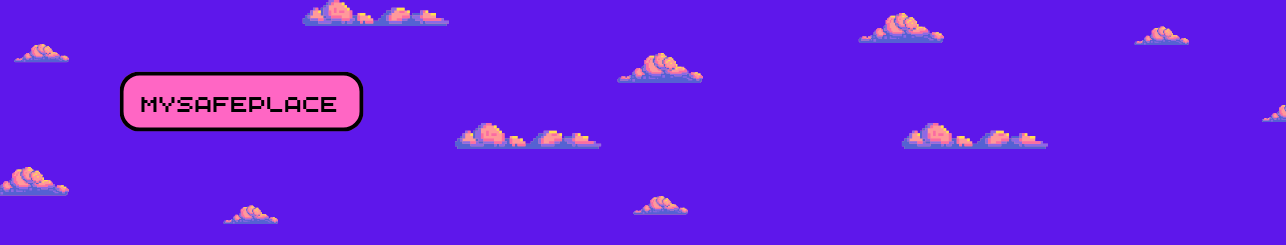
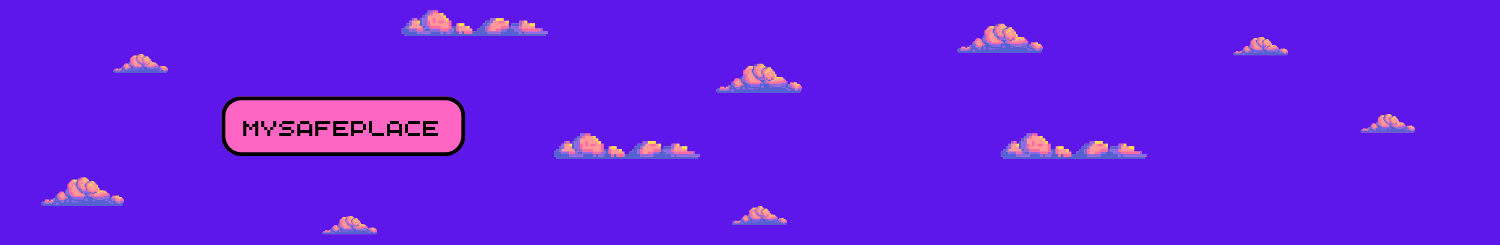
fix bugs headers

diff --git a/Niveau_1/style.css b/Niveau_1/style.css
@@ -1,3 +1,6 @@
+/* Responsive */
+@media screen and (max-width: 1500px) {}
+
 body {
     background-color: rgb(99, 2, 106);
     font-family: Arial;
@@ -12,6 +15,7 @@ a:hover {
     text-decoration: underline;
 }
 
+/* background */
 .background-full {
     margin-bottom: 15px;
     align-items: flex-end;
@@ -30,16 +34,19 @@ a:hover {
     flex-direction: column;
     justify-content: flex-end;
     height: 245px;
-    width: 1286px;
-    background: url(backgroundAlt.png);
+    width: 1500px;
+    background: url(backgroundAlt.png) center center / cover no-repeat;
 }
 
+/* menu */
 .mega-menu {
     display: flex;
     flex-direction: row;
     justify-content: flex-end;
     align-items: flex-end;
     padding-bottom: 15px;
+    margin-right: 30px;
+
 }
 
 .mega-menu__trigger:hover .mega-menu__content {

diff --git a/Niveau_1/header.php b/Niveau_1/header.php
@@ -1,5 +1,7 @@
 
 <header>
+<meta name="viewport" content="width=device-width, initial-scale=1.0">
+
     <div class="background">
         <nav class="mega-menu">
             <div class="mega-menu__item">

diff --git a/Niveau_1/headerFull.php b/Niveau_1/headerFull.php
@@ -1,3 +1,6 @@
 <header>
+<meta name="viewport" content="width=device-width, initial-scale=1.0">
+
+
     <div class="background-full">
 </header>
